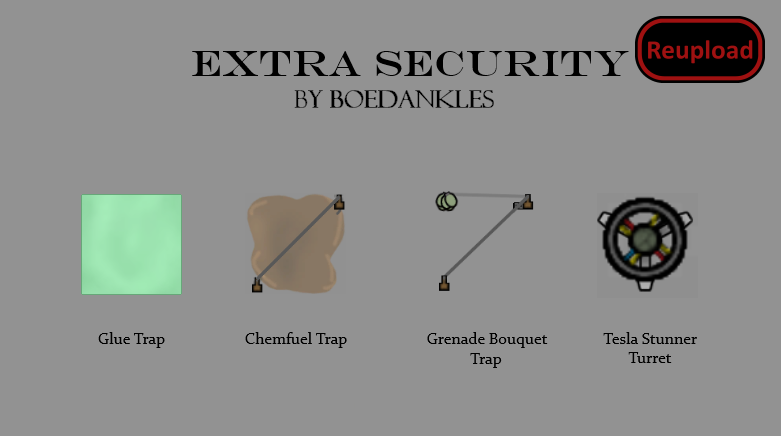
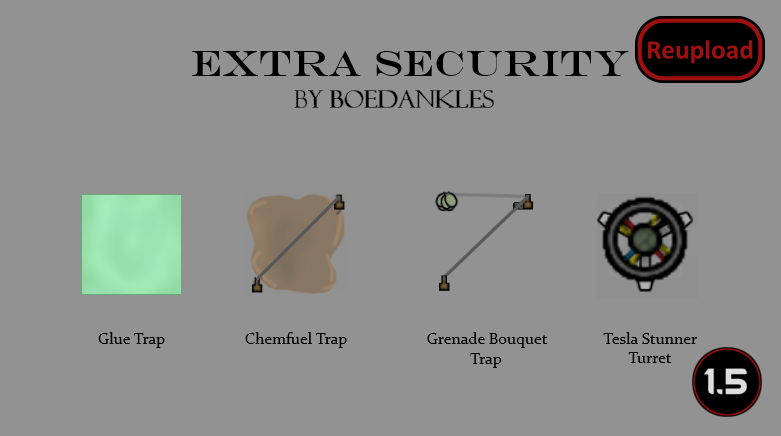
Mod updated for 1.5 and passed autotests

Changed region(s): [[0.8604, 0.7752, 0.9834, 0.9541]]

diff --git a/README.md b/README.md
@@ -50,11 +50,13 @@ This mod adds 3 new floor traps, as well as a new short-ranged turret to the ava
 
 -  See if the the error persists if you just have this mod and its requirements active.
 -  If not, try adding your other mods until it happens again.
--  Post your error-log using https://steamcommunity.com/workshop/filedetails/?id=818773962]HugsLib and command Ctrl+F12
+-  Post your error-log using https://steamcommunity.com/workshop/filedetails/?id=818773962]HugsLib or the standalone https://steamcommunity.com/sharedfiles/filedetails/?id=2873415404]Uploader and command Ctrl+F12
 -  For best support, please use the Discord-channel for error-reporting.
 -  Do not report errors by making a discussion-thread, I get no notification of that.
 -  If you have the solution for a problem, please post it to the GitHub repository.
+-  Use https://github.com/RimSort/RimSort/releases/latest]RimSort to sort your mods
 
 
 
+https://steamcommunity.com/sharedfiles/filedetails/changelog/2590690665]![Image](https://img.shields.io/github/v/release/emipa606/ExtraSecurity?label=latest%20version&style=plastic&color=9f1111&labelColor=black)
 
